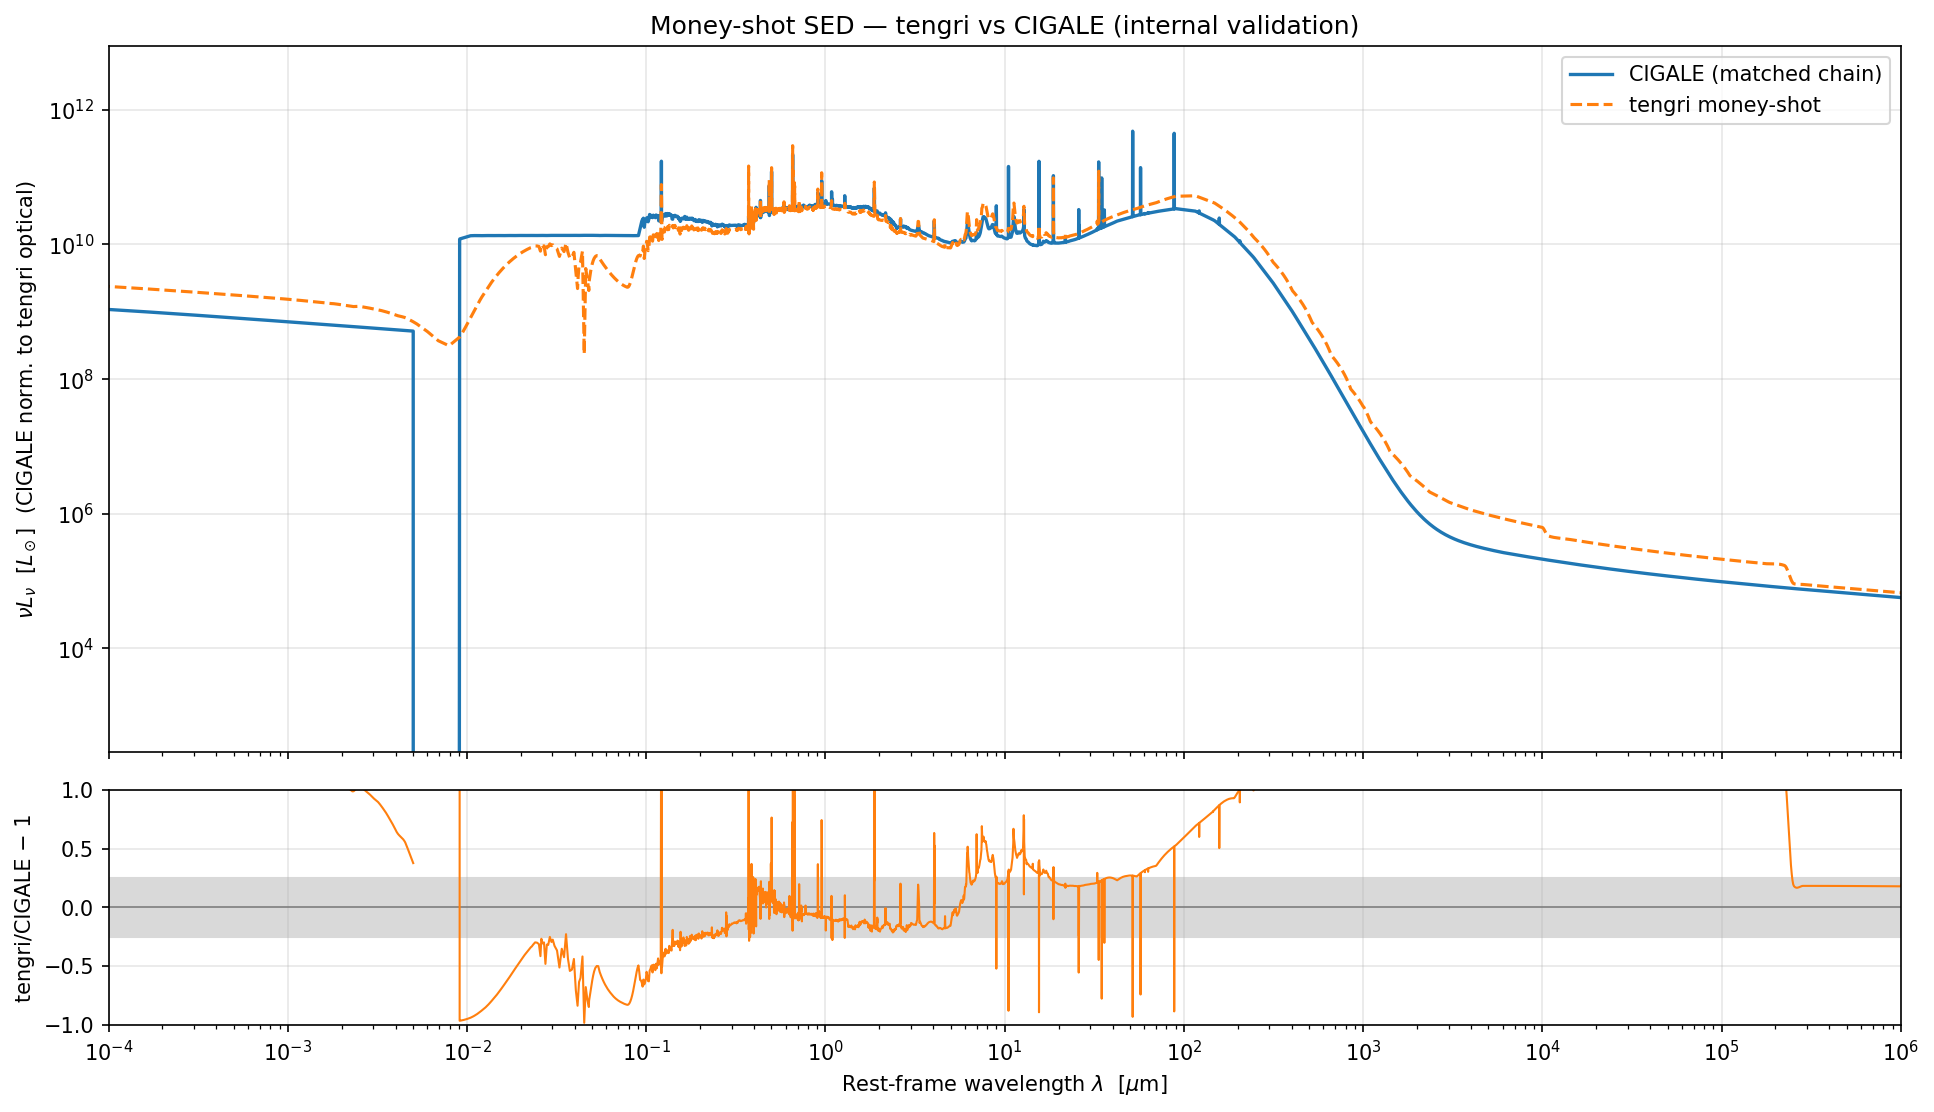
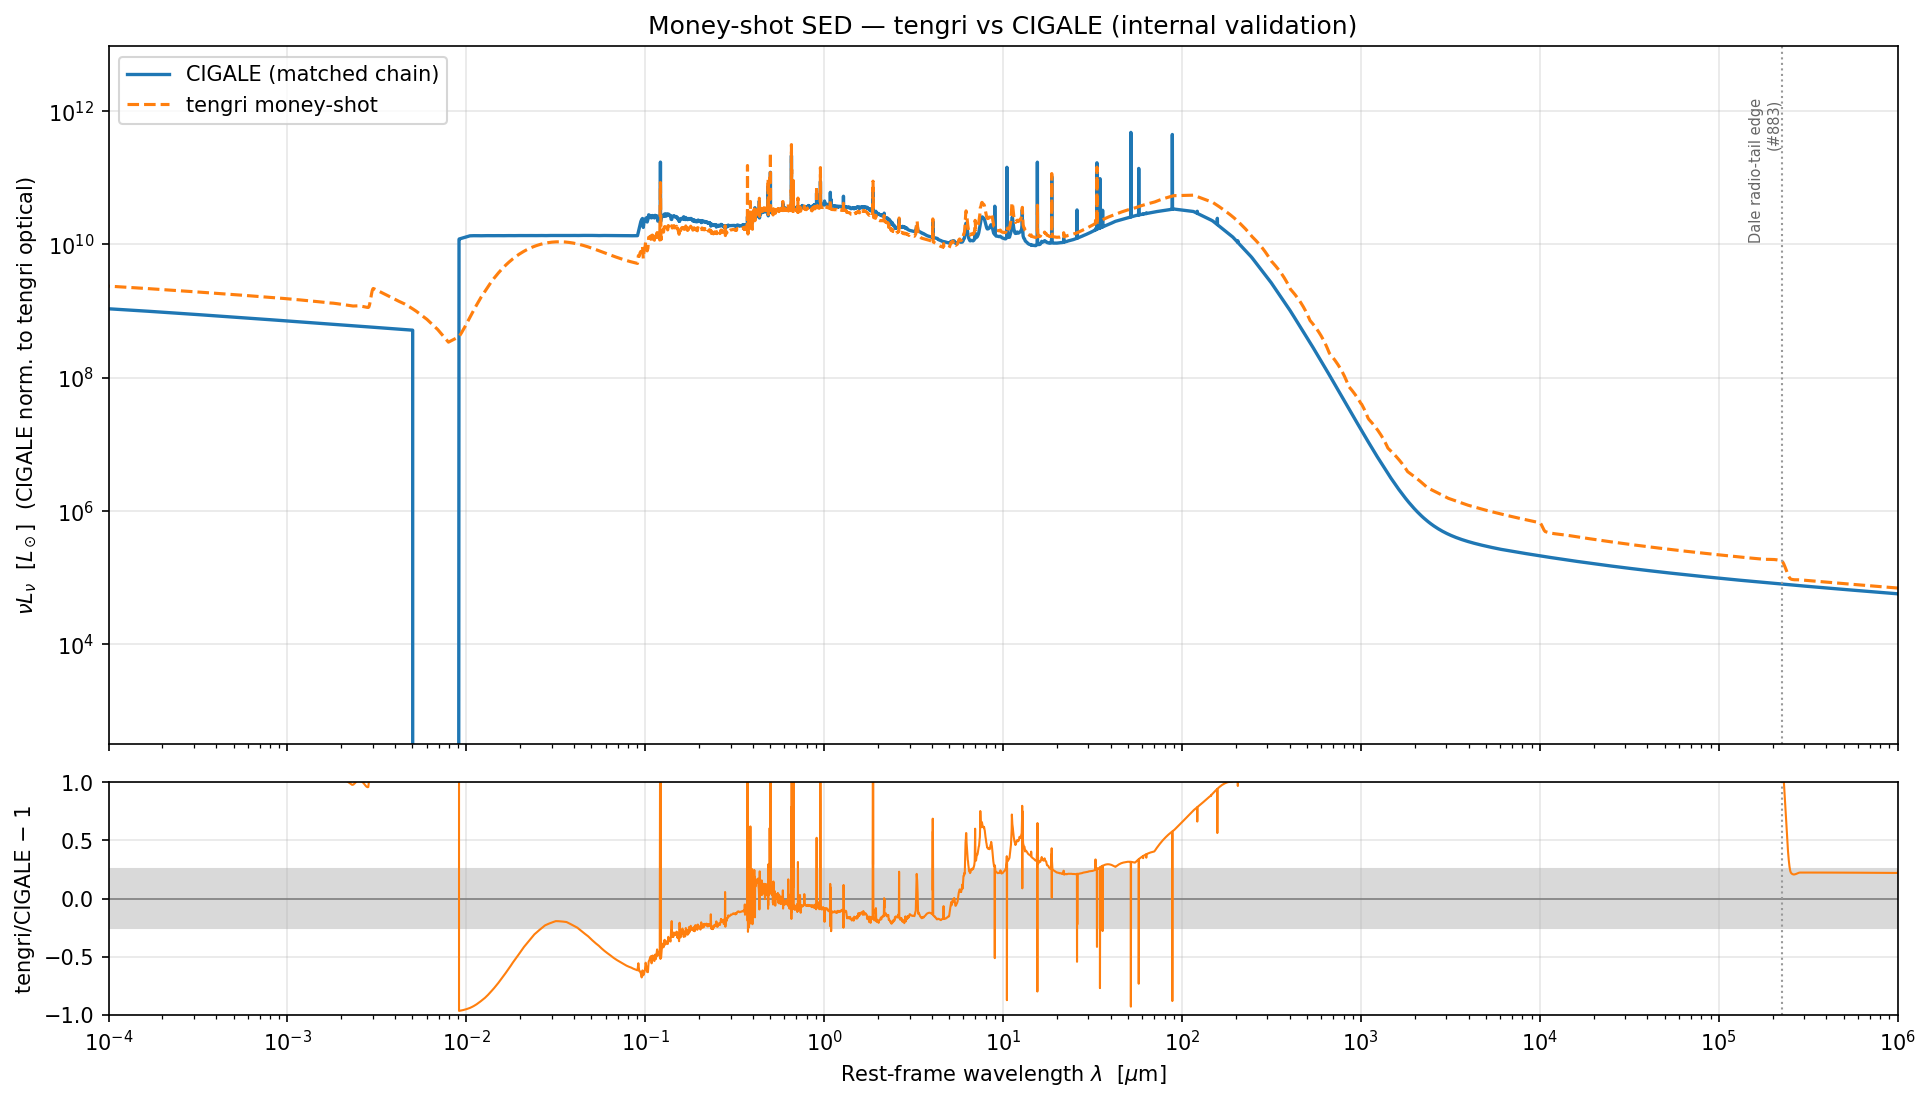
docs(reproduction/cigale): explain + flag the money-shot radio step (#883)
Root-caused the ~2.25e5 µm step in the money-shot: it is the long-wavelength
edge of the shared Dale+2014 template grid (`dale2014_templates_cigale.h5`,
0.36 µm – 2.25e5 µm). CIGALE's Dale2014 templates carry a built-in radio
synchrotron tail (FIR–radio correlation), so `dust.emission.dale2014` and the
separate `radio.condon92` BOTH contribute in the radio — a CIGALE convention
double count, not a tengri bug. tengri shows the step because its Dale radio
tail is comparable to condon92; past the template edge the interp zeroes
(`right=0.0`) leaving condon92 only. CIGALE rises smoothly there because its
radio module dominates its own (identically-truncated) Dale tail.

Adds a narrative decomposition line + a dotted "Dale radio-tail edge" marker on
both panels, so the step is explained rather than mysterious. The ~40%→2.3×
radio offset is the documented q_IR (2.64 vs 2.50) + AGN-jets + this
double-count. The physically-clean fix (truncate the Dale template to dust-only
so condon92 owns the radio) is noted as a deferred follow-up — it would make
tengri MORE correct than CIGALE's double count, so it's deliberately not applied
in this reproduction-parity figure.

diff --git a/reproduction/cigale/validate_moneyshot.py b/reproduction/cigale/validate_moneyshot.py
@@ -258,6 +258,23 @@ def main():
     print("    q_IR       tengri 2.64 (Bell03 default) vs CIGALE 2.50 -> radio ×0.72 (convention)")
     print("    AGN radio  tengri jets ON (disc-driven) vs CIGALE R_agn=0 -> radio band excess")
     print("    => radio ≈ L_ir × AGN-jets × q_IR; FIR ≈ L_ir; X-ray ≈ α_ox + XRB. No model bug.")
+    # The tengri curve steps down near ~2.25e5 µm (#883). That is the edge of the
+    # shared Dale+2014 template grid (`data/dale2014_templates_cigale.h5`, which
+    # runs 0.36 µm – 2.25e5 µm): CIGALE's Dale2014 templates carry a built-in
+    # radio-synchrotron tail (the FIR–radio correlation), so `dust.emission.
+    # dale2014` and the separate `radio.condon92` component BOTH contribute in
+    # the radio — a double count that is a CIGALE convention, not tengri-specific.
+    # tengri shows the step because its Dale-template radio tail (~L_ir-scaled)
+    # is comparable to condon92; past the template edge the interpolation zeroes
+    # (`right=0.0`) so only condon92 remains. CIGALE rises smoothly there only
+    # because its radio module dominates its own (identically-truncated) Dale
+    # tail. The radio band beyond ~1 cm is therefore not a clean single-component
+    # comparison; the physically clean fix (truncate the Dale template to
+    # dust-only and let condon92 own the radio) is tracked in #883 and would make
+    # tengri MORE correct than the CIGALE double count, so it is deliberately not
+    # applied in this reproduction figure.
+    print("    radio step ~2.25e5 µm = Dale2014 template radio-tail edge (double-counts condon92;")
+    print("               shared CIGALE convention, #883). Radio band >1 cm is not single-component.")
 
     # Figure
     fig, (ax, axr) = plt.subplots(
@@ -270,6 +287,11 @@ def main():
     ax.set_ylim(ymax * 1e-9, ymax * 30)
     ax.set_ylabel(r"$\nu L_\nu$  [$L_\odot$]  (CIGALE norm. to tengri optical)")
     ax.set_title("Money-shot SED — tengri vs CIGALE (internal validation)")
+    # Flag the Dale2014 template radio-tail edge (the #883 step): both codes'
+    # dale2014 carries a built-in radio synchrotron that double-counts condon92.
+    ax.axvline(2.25e5, color="0.6", ls=":", lw=1.0)
+    ax.text(2.25e5, ymax * 5, "Dale radio-tail edge\n(#883)", fontsize=7,
+            color="0.4", ha="right", va="top", rotation=90)
     ax.legend(fontsize=10)
     ax.grid(True, alpha=0.3)
 
@@ -279,6 +301,7 @@ def main():
     axr.axhspan(-0.25, 0.25, color="0.85")
     axr.axhline(0.0, color="0.5", lw=0.8)
     axr.plot(um, resid, "C1-", lw=1.0)
+    axr.axvline(2.25e5, color="0.6", ls=":", lw=1.0)  # Dale radio-tail edge (#883)
     axr.set_xscale("log")
     axr.set_ylim(-1, 1)
     axr.set_xlabel(r"Rest-frame wavelength $\lambda$  [$\mu$m]")
